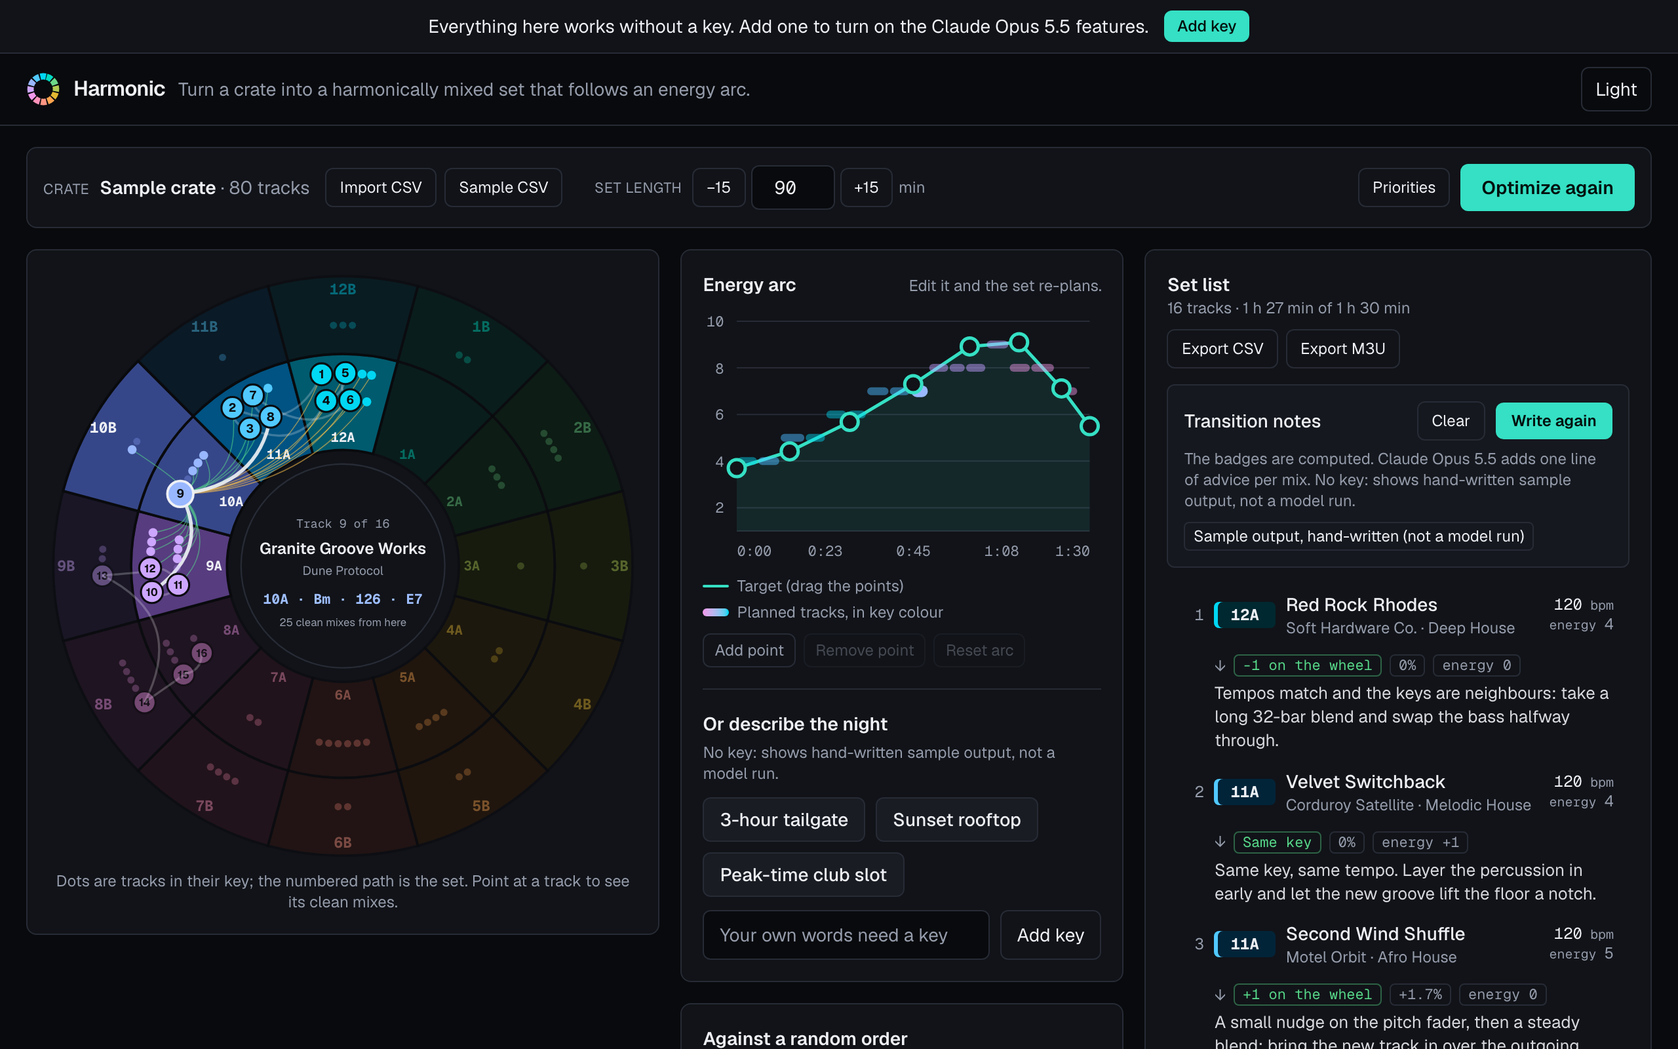
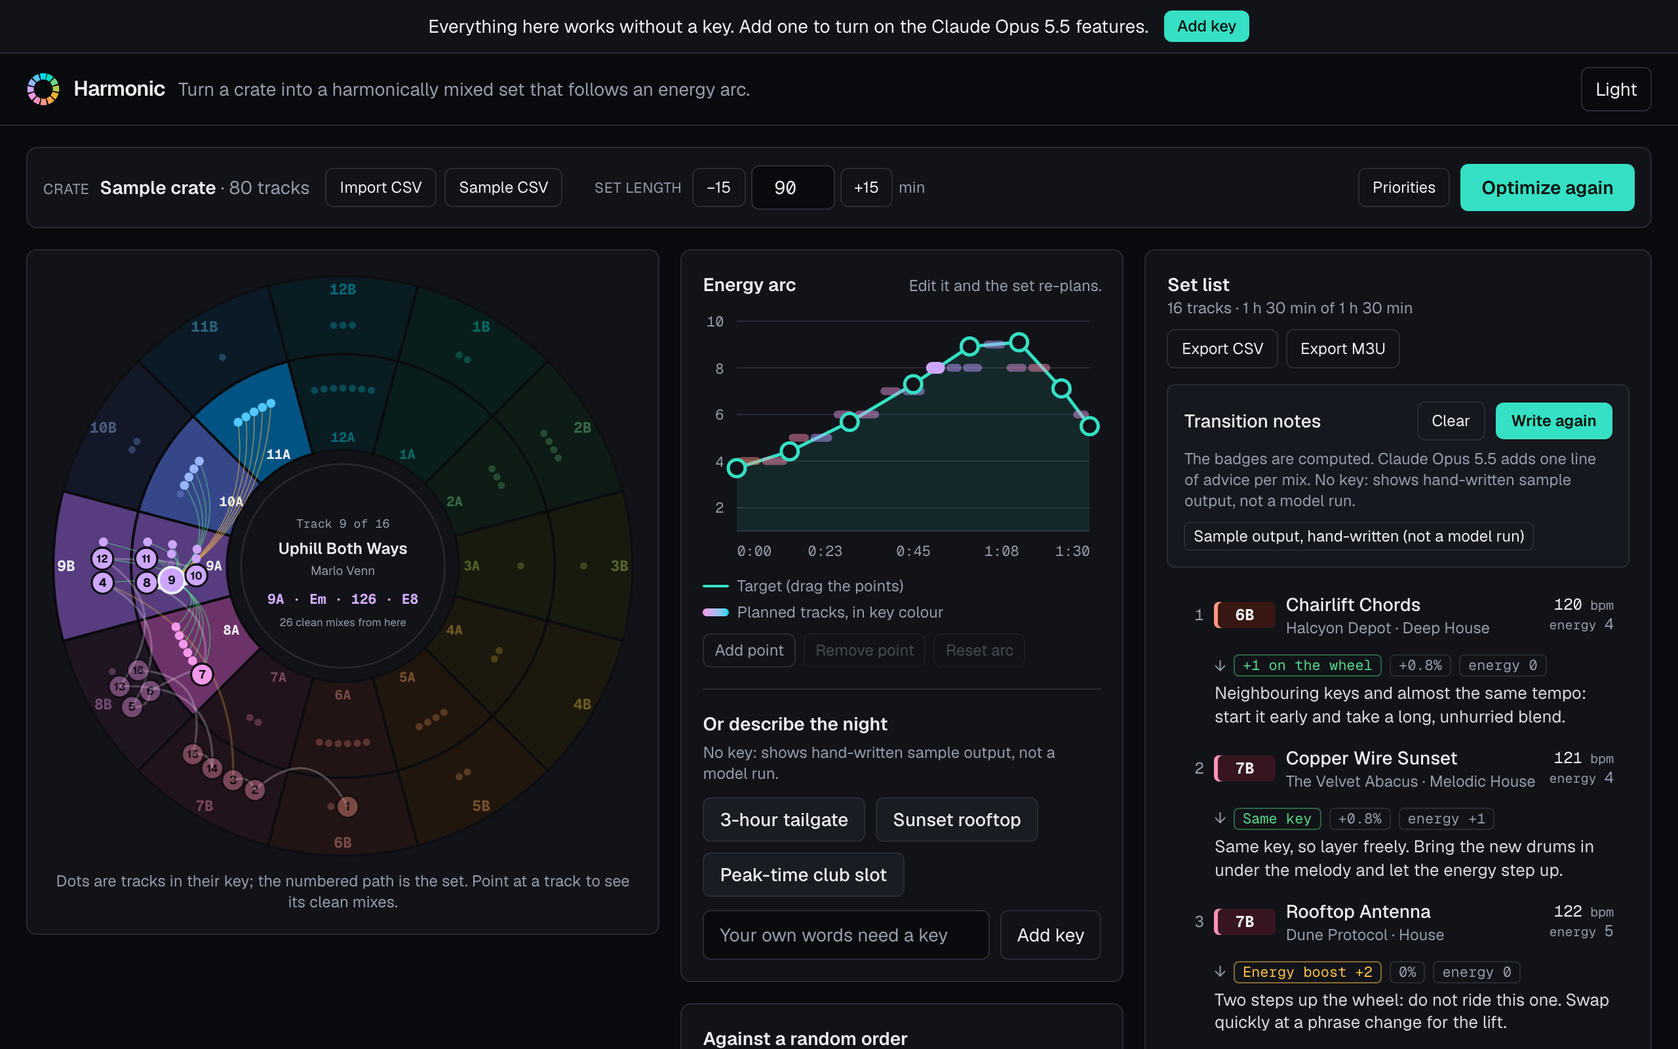
feat: engine-independent search, README, screenshots and demo GIF
The annealing schedule and acceptance rule now use only plain arithmetic, so a
seed gives the same set in every JavaScript engine; a test guards it. The
default set changed with it, so the placeholder notes fixture and presets.json
were rewritten for the new set. The wheel tries one, two, then three rows per
key before hiding any dot. README filled in with real screenshots and a GIF.

diff --git a/lib/ui/wheel-layout.ts b/lib/ui/wheel-layout.ts
@@ -116,29 +116,41 @@ export function layoutWheel(tracks: readonly Track[], setIds: readonly string[])
       width: positionOf.has(track.id) ? SET_WIDTH : DOT_WIDTH,
     }));
 
-    const total = items.reduce((sum, item) => sum + item.width, 0);
-    const options = ROWS[key.ring];
-    const roomIn = (radii: number[]) =>
-      radii.reduce((sum, radius) => sum + radius * USABLE_ANGLE, 0);
-    const radii =
-      options.find((candidate) => total <= roomIn(candidate)) ?? options[options.length - 1];
-    const rows = radii.map((radius) => ({
-      radius,
-      room: radius * USABLE_ANGLE,
-      items: [] as typeof items,
-    }));
-
-    let dropped = 0;
-    for (const item of items) {
-      const row = rows.reduce((best, candidate) => (candidate.room > best.room ? candidate : best));
-      if (row.room >= item.width || item.position !== null) {
-        row.items.push(item);
-        row.room -= item.width;
-      } else {
-        dropped++;
+    // Try one row, then two, then three (inner ring only): the first arrangement that holds
+    // everything wins. If none does, the last one is used and the leftover dots are counted.
+    const pack = (radii: number[]) => {
+      const rows = radii.map((radius) => ({
+        radius,
+        room: radius * USABLE_ANGLE,
+        items: [] as typeof items,
+      }));
+      let dropped = 0;
+      let squeezed = 0;
+      for (const item of items) {
+        const row = rows.reduce((best, candidate) =>
+          candidate.room > best.room ? candidate : best,
+        );
+        if (row.room >= item.width) {
+          row.items.push(item);
+          row.room -= item.width;
+        } else if (item.position !== null) {
+          // A set track is always drawn, even if it has to crowd its neighbours.
+          row.items.push(item);
+          row.room -= item.width;
+          squeezed++;
+        } else {
+          dropped++;
+        }
       }
+      return { rows, dropped, squeezed };
+    };
+    let packed = pack(ROWS[key.ring][0]);
+    for (const radii of ROWS[key.ring].slice(1)) {
+      if (packed.dropped === 0 && packed.squeezed === 0) break;
+      packed = pack(radii);
     }
-    if (dropped > 0) overflow.set(index, dropped);
+    const { rows } = packed;
+    if (packed.dropped > 0) overflow.set(index, packed.dropped);
 
     const middle = positionAngle(key.n);
     for (const row of rows) {

diff --git a/tests/optimizer/optimize.test.ts b/tests/optimizer/optimize.test.ts
@@ -1,3 +1,4 @@
+import { readFileSync } from "node:fs";
 import { describe, expect, it } from "vitest";
 import { SAMPLE_TRACKS } from "@/lib/crate/sample";
 import { planSet } from "@/lib/crate/set";
@@ -106,6 +107,16 @@ describe("optimize on the sample crate", () => {
     expect(other.cost.total).toBeLessThan(other.baseline.mean * 0.5);
   });
 
+  it("lands in the same neighbourhood from any starting point", () => {
+    // Annealing is a heuristic: seeds differ a little, but none should be far from the others.
+    const costs = [1, 2, 3, 4, 5, 6, 8, 9].map((seed) => optimize({ ...base, seed }).cost.total);
+    for (const cost of costs) {
+      expect(cost).toBeLessThan(result.baseline.mean * 0.2);
+      expect(cost).toBeLessThan(result.baseline.min * 0.35);
+    }
+    expect(Math.max(...costs) - Math.min(...costs)).toBeLessThan(result.baseline.mean * 0.06);
+  });
+
   it("reports a cost breakdown that adds up and matches scoreOrder", () => {
     const { cost } = result;
     expect(cost.key + cost.tempo + cost.energy + cost.fill).toBeCloseTo(cost.total, 9);
@@ -142,6 +153,28 @@ describe("optimize on the sample crate", () => {
     const mean = (values: number[]) =>
       values.reduce((sum, value) => sum + value, 0) / values.length;
     expect(mean(energies.slice(0, half))).toBeGreaterThan(mean(energies.slice(half)) + 1.5);
+  });
+});
+
+describe("reproducibility across JavaScript engines", () => {
+  it("keeps the search to arithmetic every engine rounds the same way", () => {
+    // Math.exp, Math.pow and friends are allowed to differ in the last bit between engines,
+    // which would be enough to send the same seed down a different path in another browser.
+    const files = [
+      "lib/optimizer/optimize.ts",
+      "lib/optimizer/rng.ts",
+      "lib/music/bpm.ts",
+      "lib/music/camelot.ts",
+      "lib/music/energy.ts",
+      "lib/music/transition.ts",
+      "lib/crate/types.ts",
+    ];
+    for (const file of files) {
+      const source = readFileSync(file, "utf8").replace(/\/\*[\s\S]*?\*\/|\/\/.*$/gm, "");
+      expect(source, file).not.toMatch(
+        /Math\.(exp|pow|log|log2|log10|sqrt|sin|cos|tan|hypot|random)\b|\*\*/,
+      );
+    }
   });
 });
 

diff --git a/lib/optimizer/optimize.ts b/lib/optimizer/optimize.ts
@@ -273,6 +273,27 @@ function polish(p: Problem, perm: Int32Array, scratch: Scratch, startCost: numbe
   return cost;
 }
 
+/**
+ * Cooling schedule: hot at the start (bad moves are often accepted, so the
+ * search roams), close to zero at the end (only improvements survive).
+ * `progress` runs from 0 to 1.
+ */
+function temperatureAt(progress: number): number {
+  const left = 1 - progress;
+  return END_TEMPERATURE + (START_TEMPERATURE - END_TEMPERATURE) * left * left * left * left;
+}
+
+/**
+ * Chance of accepting a move that makes the set worse by `x` temperatures.
+ * This is e^-x, the usual annealing rule, written as 1 / (1 + x + x²/2 + x³/6 + x⁴/24).
+ * Math.exp and Math.pow may round differently from one JavaScript engine to
+ * the next; plain arithmetic may not, so a seed gives the same set everywhere:
+ * on the build server, in CI, and in any browser.
+ */
+function acceptance(x: number): number {
+  return 1 / (1 + x * (1 + (x / 2) * (1 + (x / 3) * (1 + x / 4))));
+}
+
 export function optimize(input: OptimizeInput): OptimizeResult {
   const p = buildProblem(input);
   const { n } = p;
@@ -291,10 +312,9 @@ export function optimize(input: OptimizeInput): OptimizeResult {
   const bestPerm = perm.slice();
   const iterations = n < 3 || k < 1 ? 0 : (input.iterations ?? defaultIterations(n));
   const trace = { best: [best], current: [current] };
-  const cooling = END_TEMPERATURE / START_TEMPERATURE;
 
   for (let step = 0; step < iterations; step++) {
-    const temperature = START_TEMPERATURE * Math.pow(cooling, step / Math.max(1, iterations - 1));
+    const temperature = temperatureAt(step / iterations);
     const roll = rng();
     const size = Math.max(1, k);
     // Every move touches the set (the first k positions); the other end may be anywhere in the crate.
@@ -320,7 +340,7 @@ export function optimize(input: OptimizeInput): OptimizeResult {
     if (a !== b) {
       const next = evaluate(p, perm, scratch);
       const delta = next - current;
-      if (delta <= 0 || rng() < Math.exp(-delta / temperature)) {
+      if (delta <= 0 || rng() < acceptance(delta / temperature)) {
         current = next;
         k = scratch.k;
         if (current < best) {

diff --git a/README.md b/README.md
@@ -1,41 +1,72 @@
-# {{NAME}}
+# Harmonic
 
-> {{ONE_LINE_PITCH}}
+> Turn a crate of tracks into a harmonically mixed DJ set that follows a planned energy arc.
 
-[![CI](https://github.com/davezagin-max/{{REPO}}/actions/workflows/ci.yml/badge.svg)](https://github.com/davezagin-max/{{REPO}}/actions/workflows/ci.yml)
+[![CI](https://github.com/davezagin-max/harmonic/actions/workflows/ci.yml/badge.svg)](https://github.com/davezagin-max/harmonic/actions/workflows/ci.yml)
 [![License: MIT](https://img.shields.io/badge/license-MIT-blue.svg)](LICENSE)
-[![Live demo](https://img.shields.io/badge/demo-live-brightgreen.svg)]({{LIVE_URL}})
+[![Live demo](https://img.shields.io/badge/demo-live-brightgreen.svg)](https://harmonic.vercel.app)
 
-![{{NAME}} screenshot](docs/hero.png)
+![Harmonic: the Camelot wheel with the planned set drawn as a numbered path, the energy arc, and the set list with transition notes](docs/hero.png)
 
 ## Try it in 10 seconds
 
-**[Open the live demo]({{LIVE_URL}})**: no key, no sign-up. {{WHAT_TO_CLICK_FIRST}}
+**[Open the live demo](https://harmonic.vercel.app)**: no key, no sign-up. It opens with an 80-track sample crate already planned into a 90-minute set. Click **3-hour tailgate** and watch the arc redraw and the set re-plan round the wheel, or drag any point on the energy arc. Point at a track on the wheel to see every clean mix out of it.
 
-Demo mode replays recorded Claude Opus 5.5 runs. Add your own Anthropic key in the app to run it live.
+The optimizer, the wheel, the CSV import, and the exports need no key at all. The two Claude features (an arc from a description, and transition notes) answer their presets from fixtures in demo mode. Add your own Anthropic key in the app to run them live on your own words and your own set.
+
+Demo data in this commit is hand-written sample output; `pnpm record` replaces it with real Claude Opus 5.5 runs.
+
+![A 10-second tour: two arc presets, pointing at tracks on the wheel, and transition notes](docs/demo.gif)
 
 ## Why it's interesting
 
-- **{{DECISION_1}}** {{WHY_1}}
-- **{{DECISION_2}}** {{WHY_2}}
-- **{{DECISION_3}}** {{WHY_3}}
+- **One search answers "which tracks" and "in what order".** The search state is a single ordering of the whole crate, and the set is the front of that ordering: tracks are taken in order until the target length is filled. Swapping a track near the front with one further back replaces it in the set, so simulated annealing (swap, insert, reverse moves, then a greedy pass) chooses and sequences at once. On the sample crate the optimized set costs 4.4 against 33.8 for the average of 200 random orders (87% lower, and well under the best random order at 20.1), with 15 of 15 mixes clean where a random order manages about 20%. A run takes about 20 ms on a laptop and happens in a Web Worker.
+- **The same seed gives the same set in every JavaScript engine.** `Math.exp` and `Math.pow` are allowed to round differently between engines, which is enough to send a search down a different path. The annealing schedule and acceptance rule use only plain arithmetic, the random numbers come from a seeded generator, and a test fails if an engine-dependent math call creeps into the search. That is what lets the server plan the opening set at build time, so the first paint is already optimized, and lets the demo transition notes be written for exactly that set.
+- **Code computes the facts; the model only phrases.** For transition notes the browser sends raw tracks, the server recomputes every key relation, tempo change, and energy change with the same tested functions the badges use, and Claude is asked only for one line of advice per mix. Each note is then fact-checked: if it quotes a BPM, a percentage, or a key that is not true for that mix, it is thrown away, asked for again once, and otherwise replaced by a rule-based note that is labelled as such.
 
 ## Architecture
 
 ```mermaid
 flowchart LR
-  UI[Next.js UI] -->|x-anthropic-key header| API[API route]
-  API -->|no key| Fixtures[(Recorded runs)]
-  API -->|key| Claude[Claude Opus 5.5]
+  CSV[Crate export<br/>CSV / TSV, UTF-8 or UTF-16] --> Import[Importer<br/>in the browser]
+  Sample[Sample crate<br/>80 invented tracks] --> Import
+  Import --> Crate[(Crate)]
+  Crate --> Opt[Optimizer<br/>seeded annealing<br/>Web Worker]
+  Arc[Energy arc<br/>drag or describe] --> Opt
+  Build[Server component<br/>at build time] -->|default set| Set
+  Opt --> Set[Planned set]
+  Set --> Wheel[Camelot wheel]
+  Set --> List[Set list + badges]
+  Set --> Out[CSV / M3U export]
+  Arc -. description .-> ArcAPI["/api/arc"]
+  Set -. raw tracks .-> NotesAPI["/api/notes"]
+  ArcAPI -->|no key| Fix[(Fixtures)]
+  NotesAPI -->|no key| Fix
+  ArcAPI -->|key| Claude[Claude Opus 5.5]
+  NotesAPI -->|"key: recompute facts, fact-check the reply"| Claude
 ```
+
+| Path             | What lives there                                                                                           |
+| ---------------- | ---------------------------------------------------------------------------------------------------------- |
+| `lib/music/`     | Camelot rules, tempo cost, energy arc, the facts of one mix. Pure functions.                               |
+| `lib/optimizer/` | Cost function, simulated annealing, random baseline, seeded generator, Web Worker entry.                   |
+| `lib/crate/`     | Delimited-text reader, importer, sample crate, set timeline, CSV and M3U export.                           |
+| `lib/ai/`        | `arc.ts` and `notes.ts` are the shared validators; `arc-live.ts` and `notes-live.ts` make the model calls. |
+| `lib/ui/`        | Wheel geometry, key colours, and the wording for where AI output came from.                                |
+| `components/`    | `Studio` holds the state; `CamelotWheel`, `ArcEditor`, `SetList`, `StatsCard`, `Toolbar`, `ArcPrompt`.     |
+| `app/api/`       | `arc` and `notes` routes, both thin wrappers over the kit's `jsonRoute`.                                   |
 
 ## How it uses Claude Opus 5.5
 
-| Feature | Why |
-| --- | --- |
-| {{FEATURE}} | {{WHY}} |
+| Feature                                                                                                                                                                                 | Why                                                                                                                                                                                                                                                                                                                                                                                                             |
+| --------------------------------------------------------------------------------------------------------------------------------------------------------------------------------------- | --------------------------------------------------------------------------------------------------------------------------------------------------------------------------------------------------------------------------------------------------------------------------------------------------------------------------------------------------------------------------------------------------------------- |
+| **Arc from words** (`POST /api/arc`): "3-hour house tailgate, 45-minute warm-up, peak at 1:45" becomes 12 to 24 curve points, a one-line summary, and the set length if one was stated. | Turning a loose description into a shape is judgement, which is what the model is good at. Structured output at `low` effort keeps it fast and cheap. The reply is validated before use: values clamped to range, points sorted and de-duplicated, the curve extended to both ends, and one corrective retry on the same conversation if there is no usable curve. Everything after the curve is deterministic. |
+| **Transition notes** (`POST /api/notes`): one short line of mixing advice per mix.                                                                                                      | Advice is language; the numbers are not. The server recomputes the facts of each mix from the raw tracks and gives them to the model as data. A note that states a figure the facts do not support is rejected, and a follow-up on the same append-only conversation asks again for only those mixes. Anything still missing gets a rule-based note, tagged in the UI.                                          |
+| **What Claude is not asked to do**: pick tracks, order them, score a mix, or compute any number.                                                                                        | Those have exact answers. They are computed by tested code, run without a key, and are the same every time.                                                                                                                                                                                                                                                                                                     |
 
-**Your key stays yours.** The app is bring-your-own-key. The key lives in your browser tab's memory (optionally `sessionStorage`), travels in an `x-anthropic-key` header to this app's own API route, and is used for that one request. The server never stores or logs it. Each live action shows its token count and cost.
+Both calls go through one helper (`lib/claude.ts`) that always sends adaptive thinking with an explicit effort level, never forces a tool, reads content by block type, and treats a refusal as a normal result that the UI shows plainly. Text from the visitor (the description, and track and artist names from an imported file) is wrapped in tags and the system prompt says it is data, not instructions. Cancelling a request, or changing the set while notes are being written, aborts the call so no further model calls are made on the visitor's key.
+
+**Your key stays yours.** The app is bring-your-own-key. The key lives in your browser tab's memory (optionally `sessionStorage`), travels in an `x-anthropic-key` header to this app's own API route, and is used for that one request. The server never stores or logs it. Each live action shows its token count and cost. Imported crate files are parsed in the browser and are never uploaded; a notes request sends only the title, artist, key, BPM, and energy of the tracks in the set.
 
 ## Run locally
 
@@ -44,7 +75,9 @@ pnpm install
 pnpm dev
 ```
 
-Open http://localhost:3000. It runs in demo mode until you add a key in the UI.
+Open http://localhost:3170. It runs in demo mode until you add a key in the UI.
+
+To try the importer, click **Sample CSV** to download the sample crate and see the simplest layout it reads. It also reads Rekordbox playlist exports (tab-separated, UTF-16), Serato and Traktor-style CSVs, and Mixed In Key exports; keys can be Camelot (`8A`), Open Key (`1m`), or musical (`Am`, `F#m`, `Bb`).
 
 ## Tests & quality
 
@@ -52,14 +85,40 @@ Open http://localhost:3000. It runs in demo mode until you add a key in the UI.
 pnpm check   # lint, typecheck, unit tests, production build
 ```
 
-{{WHAT_THE_TESTS_COVER}}
+184 tests, none of which need a key or a network:
+
+- **Camelot rules**: every notation for all 24 keys, sharps and flats that name the same pitch, the 12-to-1 wrap, the four compatible moves, and clash costs that rise with distance round the wheel.
+- **Tempo and energy**: the ±6% pitch range, half-time and double-time matches (87 against 174), arc interpolation, and the arc validator.
+- **Optimizer**: beats the random baseline by a clear margin (under half the average cost and under the best of 200 shuffles), fills the target length to within half a track, never repeats a track, is identical for the same seed, stays close across seeds, responds to the priority weights, and finds the obvious answer on a six-track crate.
+- **Import and export**: quoted commas, doubled quotes, byte-order marks, UTF-16 with and without a mark, five header layouts, skipped rows with reasons, derived energy, and exports that defuse spreadsheet formulas hidden in track titles.
+- **Claude routes with a fake client**: request shape, untrusted-input wrapping, the retry on an append-only conversation, the fact check, the rule-based fallback, refusals, and no further calls after a cancel.
+- **Fixtures**: every fixture passes the same validators as live output, `fixtures/presets.json` matches what the app sends, and placeholder flags are checked against each fixture's own value, so the suite stays green after real runs are recorded.
+- **Smoke test**: the route handlers in demo mode, from an arc preset through a re-planned set to notes, plus the demo-miss, bad-input, and bad-key paths.
+
+The UI was also walked in headless Chromium at 360, 390, 768, 1024, 1280, and 1440 px (no horizontal scroll before or after interacting), in both themes, and through the live path with every `/api` call intercepted. Screens from that pass:
+
+| Point at a track: its clean mixes fan out                                                                                | "3-hour tailgate" preset: 32 tracks, clashes in red                                   |
+| ------------------------------------------------------------------------------------------------------------------------ | ------------------------------------------------------------------------------------- |
+| ![Hovering a track lights the keys it can move to and draws a link to every track it mixes into cleanly](docs/hover.png) | ![A three-hour set planned to an arc that came from a description](docs/tailgate.png) |
+
+| Light theme                    | Phone, first screen                          | Phone, arc from words                                |
+| ------------------------------ | -------------------------------------------- | ---------------------------------------------------- |
+| ![Light theme](docs/light.png) | ![Phone: toolbar and wheel](docs/mobile.png) | ![Phone: an arc preset applied](docs/mobile-arc.png) |
 
 CI runs the same checks plus a gitleaks secret scan on every push.
 
 ## Tradeoffs, limitations, next steps
 
-- {{TRADEOFF}}
+- **The search is a heuristic, not a proof.** Annealing does not guarantee the best possible set. Different seeds give slightly different sets: on the sample crate every seed tested finishes below a fifth of the random-order average (a test bounds this), and **Optimize again** is there to show another good answer.
+- **The data is only as good as the import.** Nothing here listens to audio. Key, BPM, and energy are whatever your DJ software wrote. When energy is missing, a stand-in is derived from where the track's tempo sits in the crate and is marked with `~`; treat the arc fit as approximate in that case.
+- **The timeline is a simple model.** Each track is assumed to play for its length minus a 60-second blend. Real sets vary.
+- **The harmonic rules are the standard ones, deliberately.** Same key, one step either way, relative major or minor, and the two-step energy boost are compatible; everything else is a graded clash, including diagonal moves that some DJs do use.
+- **Demo notes cover one set.** Without a key, transition notes exist only for the opening sample set. Any other set needs a key.
+- **Stopping a live call relies on the request's abort signal.** Cancel in the browser aborts the fetch, and the pipeline checks the signal before every model call; that path is tested with a fake client, not against a live connection.
+- **Nothing is saved.** Reloading returns to the sample crate. Crates are capped at 500 tracks and notes at 60 tracks per set.
+- **The sample crate is invented.** Titles and artists were made up for this project and have not been checked against a music catalogue, so a coincidence with a real name is possible.
 - Rate limiting is in memory per server instance: enough to blunt abuse of a demo, not a global quota.
+- **Next steps:** pin a track to a position ("open with this one"), avoid the same artist twice in a row, save the crate and plan locally, and read Rekordbox XML directly.
 
 ---
 
